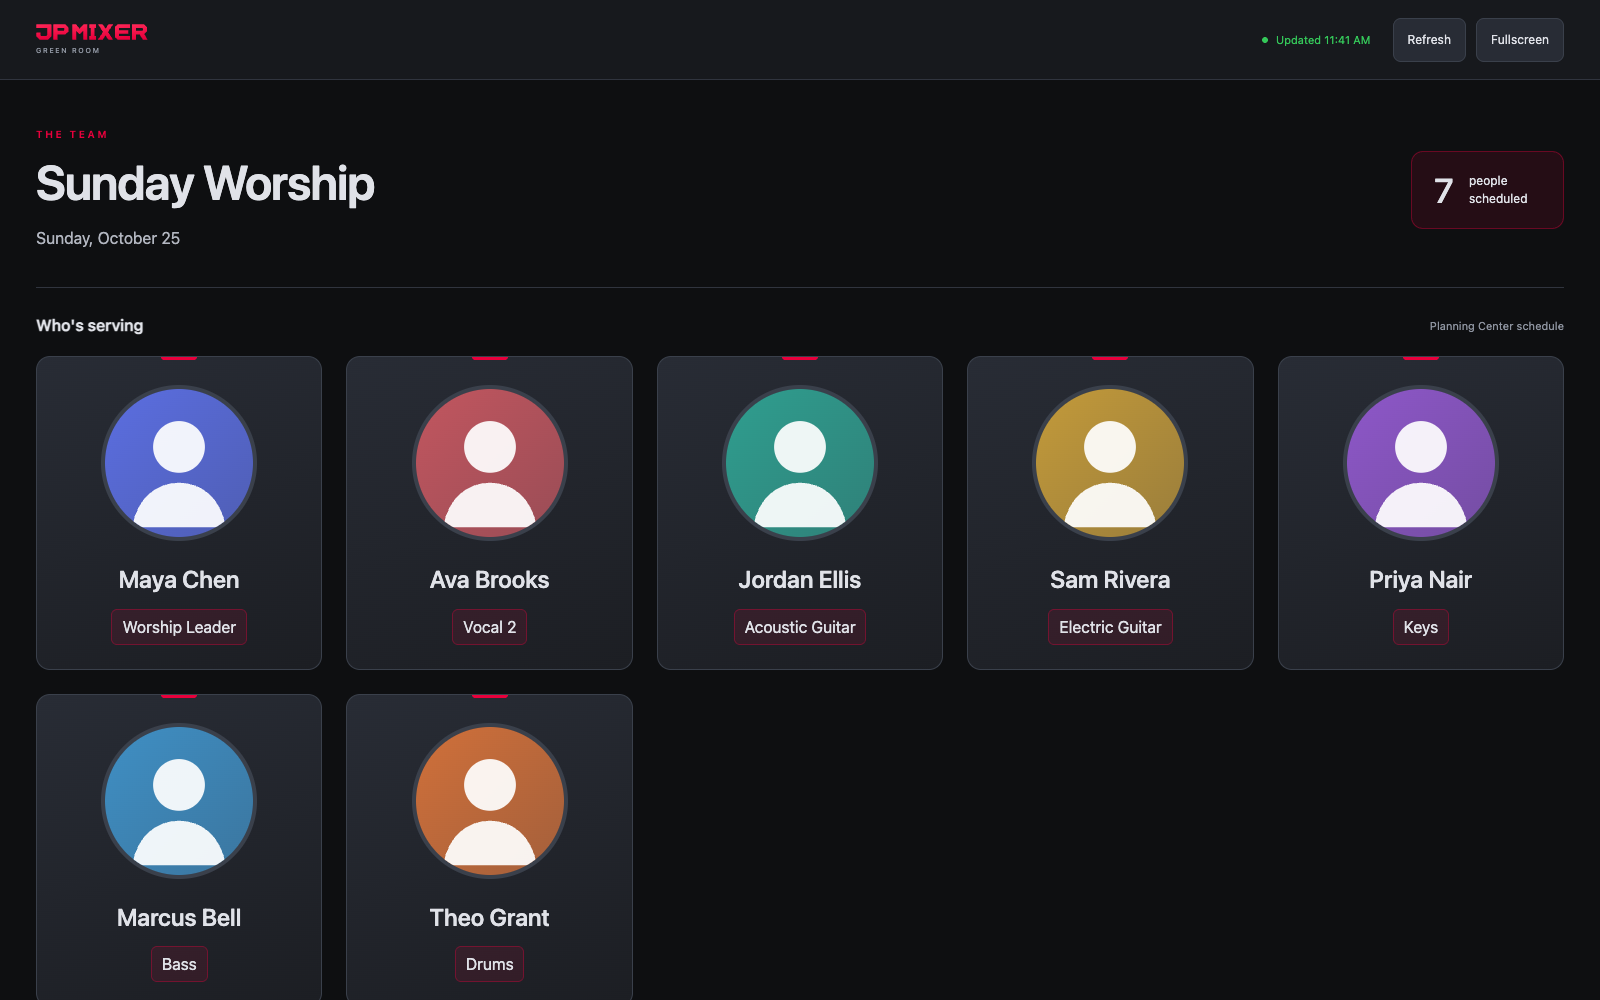
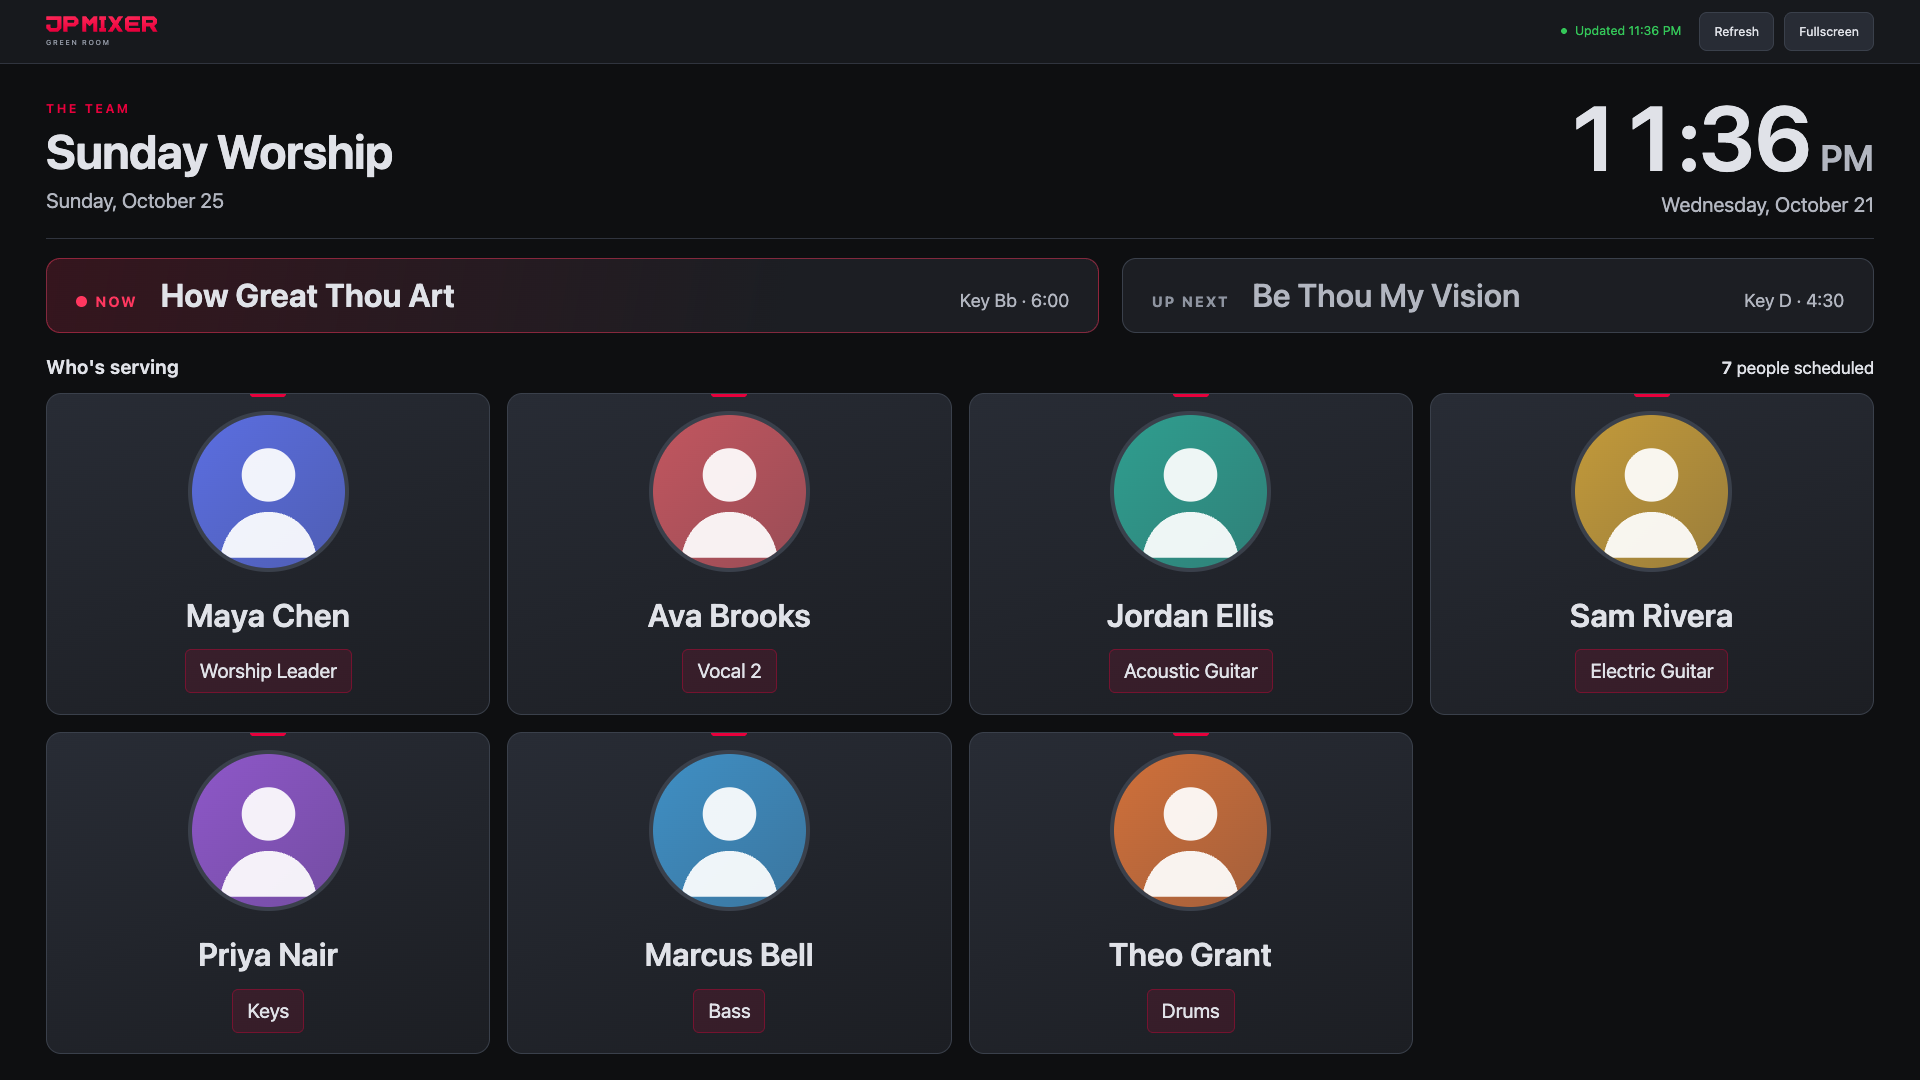
docs: 2.0.8 in the README, manual and Musician Guide
- README: New in 2.0.8; 2.0.7 moves to earlier releases
- User Manual: Green Room on a TV (new screenshot), shared Devices stage,
  chat clearing per service; covers say 2.0.8

diff --git a/docs/manual/index.html b/docs/manual/index.html
@@ -196,7 +196,7 @@ footer.end { border-top: 1px solid var(--rule); padding-top: 22px; color: var(--
 <header class="cover">
   <div class="wrap">
     <div>
-      <div class="cover-top"><span class="brand">JPMixer</span><span class="edition">USER MANUAL · VERSION 2.0.7 · OCTOBER 2026</span></div>
+      <div class="cover-top"><span class="brand">JPMixer</span><span class="edition">USER MANUAL · VERSION 2.0.8 · OCTOBER 2026</span></div>
       <h1 style="margin-top:34px">JPMixer User Manual</h1>
       <p class="lede">Setting up and running JPMixer: personal monitor mixes on every musician’s phone, tools for the monitor and FOH engineers, and a Home page for every production station, all driven by your console and your Planning Center schedule.</p>
       <dl class="cover-facts">
@@ -563,7 +563,7 @@ footer.end { border-top: 1px solid var(--rule); padding-top: 22px; color: var(--
 
   <h3>Devices on stage</h3>
   <figure class="shot bleed"><img src="img/devices.png" alt="Devices on stage: seven device cards on a stage plan"><figcaption><b>Fig. 9.4</b>Devices on stage. Each card is a connected phone or iPad and the mix it’s on.</figcaption></figure>
-  <p>Every connected phone and iPad, the mix it is on, and its latest activity. Click <span class="ui">Arrange stage</span> and drag the cards to match where people stand, from upstage to downstage. <span class="ui">Grid</span> shows the same cards in a plain grid. Positions save in that browser.</p>
+  <p>Every connected phone and iPad, the mix it is on, and its latest activity. Click <span class="ui">Arrange stage</span> and drag the cards to match where people stand, from upstage to downstage. <span class="ui">Grid</span> shows the same cards in a plain grid. The arrangement is saved on the JPMixer computer, so every computer or iPad that opens the Devices page shows the same stage, and an open Devices page follows changes made on another screen.</p>
 </section>
 
 <!-- ═════════ 10 ═════════ -->
@@ -649,7 +649,7 @@ footer.end { border-top: 1px solid var(--rule); padding-top: 22px; color: var(--
   <p>A station they have never saved starts from their layout on another station. Until you save, the layout stays in that browser only.</p>
 
   <h3>Team chat</h3>
-  <p>Messages go to all four stations live. Each shows who sent it and from which station.</p>
+  <p>Messages go to all four stations live. Each shows who sent it and from which station. The chat clears itself when Planning Center moves on to the next service, for example from Saturday night’s plan to Sunday morning’s, and it starts empty whenever JPMixer opens.</p>
 
   <h3>Companion buttons</h3>
   <p>JPMixer connects to Bitfocus Companion (3.0 or newer) as a Satellite and adds one button surface per Home page.</p>
@@ -670,11 +670,14 @@ footer.end { border-top: 1px solid var(--rule); padding-top: 22px; color: var(--
 <section class="chapter" id="greenroom">
   <p class="eyebrow">Chapter 12</p>
   <h2 class="ch">Green Room display</h2>
-  <p class="ch-intro">A full-screen, read-only display of who is serving, with photos and roles, for a TV or iPad in the green room.</p>
-  <figure class="shot bleed"><img src="img/green-room.png" alt="Green Room display with the worship team’s photos, names and roles"><figcaption><b>Fig. 12.1</b>The Green Room at <code>/greenroom.html</code>.</figcaption></figure>
+  <p class="ch-intro">A full-screen, read-only display for a TV or iPad in the green room: who is serving, with photos and roles, a large clock, and what’s live in the service right now.</p>
+  <figure class="shot bleed"><img src="img/green-room.png" alt="Green Room display with the worship team’s photos, names and roles"><figcaption><b>Fig. 12.1</b>The Green Room on a 1080p TV, with the clock and Planning Center Live’s current and next item.</figcaption></figure>
   <ul>
-    <li>Open <code>http://192.168.1.20/greenroom.html</code> on the screen and click <span class="ui">Fullscreen</span>. It refreshes every 2 minutes, so it can be left open.</li>
-    <li>It shows the team chosen under Planning Center → Service &amp; team (or everyone), minus any position marked Hide from Green Room.</li>
+    <li>Open <code>http://192.168.1.20/greenroom.html</code> on the screen and click <span class="ui">Fullscreen</span>. It can be left open: the team refreshes every 2 minutes.</li>
+    <li><strong>Made for a 16:9 TV.</strong> On a landscape screen everything fits on one screen with nothing to scroll. The team grid sizes itself so everyone fits, with bigger photos for a small team and smaller ones for a big team. On a phone or portrait screen it becomes a scrolling list.</li>
+    <li><strong>Clock:</strong> the time and today’s date, top right.</li>
+    <li><strong>Now and Up next:</strong> while someone runs the service in Planning Center Live, a strip shows the live item and the next one, with their key and length. It follows Live within about 15 seconds and disappears when Live isn’t running.</li>
+    <li>It shows the team chosen under Planning Center → Service &amp; team (or everyone), minus any position marked Hide from Green Room. Someone serving more than one role shows once, with each role under their name.</li>
     <li>No code is needed. It is information only, not a control surface.</li>
   </ul>
 </section>
@@ -873,7 +876,7 @@ footer.end { border-top: 1px solid var(--rule); padding-top: 22px; color: var(--
 </section>
 
       <footer class="end">
-        <p style="max-width:none">JPMixer User Manual · Version 2.0.7 · October 2026. Screens show JPMixer’s demo console and a fictional schedule.</p>
+        <p style="max-width:none">JPMixer User Manual · Version 2.0.8 · October 2026. Screens show JPMixer’s demo console and a fictional schedule.</p>
         <p style="max-width:none;font-size:12px">JPMixer is not affiliated with DiGiCo, Allen &amp; Heath, KLANG:technologies, Behringer / MUSIC Tribe, Waves Audio, Bitfocus or Planning Center. All trademarks belong to their owners.</p>
       </footer>
     </div>

diff --git a/docs/musician/index.html b/docs/musician/index.html
@@ -311,7 +311,7 @@ footer { border-top: 1px solid var(--rule); margin-top: 48px; padding-top: 18px;
     <dd>Use the same address as before, then Menu → My Mixes → <b>Find My Mixes…</b> and search for your name.</dd>
   </dl>
   <footer>
-    <p>JPMixer Musician Guide · Version 2.0.7 · October 2026. Screens show a demo setup; every name is fictional. Sound teams: the full <a href="../MANUAL.md">JPMixer User Manual</a> covers setup.</p>
+    <p>JPMixer Musician Guide · Version 2.0.8 · October 2026. Screens show a demo setup; every name is fictional. Sound teams: the full <a href="../MANUAL.md">JPMixer User Manual</a> covers setup.</p>
   </footer>
 </section>
 

diff --git a/docs/MANUAL.md b/docs/MANUAL.md
@@ -7,7 +7,7 @@
 
 # JPMixer User Manual
 
-**Version 2.0.7 · October 2026**
+**Version 2.0.8 · October 2026**
 
 Setting up and running JPMixer: personal monitor mixes on every musician’s phone, tools for the monitor and FOH engineers, and a Home page for every production station, all driven by your console and your Planning Center schedule.
 
@@ -390,7 +390,7 @@ On DiGiCo, each strip’s **EQ** button opens the **channel processing panel**: 
 
 <p align="center"><sub>Fig. 9.4 · Devices on stage. Each card is a connected phone or iPad and the mix it’s on.</sub></p>
 
-Every connected phone and iPad, the mix it is on, and its latest activity. Click **Arrange stage** and drag the cards to match where people stand, from upstage to downstage. **Grid** shows the same cards in a plain grid. Positions save in that browser.
+Every connected phone and iPad, the mix it is on, and its latest activity. Click **Arrange stage** and drag the cards to match where people stand, from upstage to downstage. **Grid** shows the same cards in a plain grid. The arrangement is saved on the JPMixer computer, so every computer or iPad that opens the Devices page shows the same stage, and an open Devices page follows changes made on another screen.
 
 ---
 
@@ -513,7 +513,7 @@ A station they have never saved starts from their layout on another station. Unt
 
 ### Team chat
 
-Messages go to all four stations live. Each shows who sent it and from which station.
+Messages go to all four stations live. Each shows who sent it and from which station. The chat clears itself when Planning Center moves on to the next service, for example from Saturday night’s plan to Sunday morning’s, and it starts empty whenever JPMixer opens.
 
 ### Companion buttons
 
@@ -540,14 +540,17 @@ Settings → Pages lists every page JPMixer serves with its direct link. FOH Hom
 
 ## 12. Green Room display
 
-A full-screen, read-only display of who is serving, with photos and roles, for a TV or iPad in the green room.
+A full-screen, read-only display for a TV or iPad in the green room: who is serving, with photos and roles, a large clock, and what’s live in the service right now.
 
 <p align="center"><img src="manual/img/green-room.png" alt="Green Room display with the worship team’s photos, names and roles"></p>
 
-<p align="center"><sub>Fig. 12.1 · The Green Room at `/greenroom.html`.</sub></p>
+<p align="center"><sub>Fig. 12.1 · The Green Room on a 1080p TV, with the clock and Planning Center Live’s current and next item.</sub></p>
 
-- Open `http://192.168.1.20/greenroom.html` on the screen and click **Fullscreen**. It refreshes every 2 minutes, so it can be left open.
-- It shows the team chosen under Planning Center → Service & team (or everyone), minus any position marked Hide from Green Room.
+- Open `http://192.168.1.20/greenroom.html` on the screen and click **Fullscreen**. It can be left open: the team refreshes every 2 minutes.
+- **Made for a 16:9 TV.** On a landscape screen everything fits on one screen with nothing to scroll. The team grid sizes itself so everyone fits, with bigger photos for a small team and smaller ones for a big team. On a phone or portrait screen it becomes a scrolling list.
+- **Clock:** the time and today’s date, top right.
+- **Now and Up next:** while someone runs the service in Planning Center Live, a strip shows the live item and the next one, with their key and length. It follows Live within about 15 seconds and disappears when Live isn’t running.
+- It shows the team chosen under Planning Center → Service & team (or everyone), minus any position marked Hide from Green Room. Someone serving more than one role shows once, with each role under their name.
 - No code is needed. It is information only, not a control surface.
 
 ---

diff --git a/README.md b/README.md
@@ -19,7 +19,7 @@
   <a href="#download"><b>⬇ Download</b></a> &nbsp;·&nbsp;
   <a href="docs/MANUAL.md"><b>📖 User Manual</b></a> &nbsp;·&nbsp;
   <a href="docs/MUSICIAN-GUIDE.md"><b>🎧 Musician Guide</b></a> &nbsp;·&nbsp;
-  <a href="#new-in-2-0-7">What’s new</a> &nbsp;·&nbsp;
+  <a href="#new-in-2-0-8">What’s new</a> &nbsp;·&nbsp;
   <a href="#quick-start">Quick start</a> &nbsp;·&nbsp;
   <a href="#features">Features</a> &nbsp;·&nbsp;
   <a href="#consoles">Consoles</a> &nbsp;·&nbsp;
@@ -75,22 +75,25 @@
 
 ---
 
-<a id="new-in-2-0-7"></a>
+<a id="new-in-2-0-8"></a>
 
-## 🆕 New in 2.0.7
+## 🆕 New in 2.0.8
 
 | | |
 |---|---|
-| 📖 **User Manual** | A complete manual with screenshots of every page and setting. See [Documentation](#documentation). |
-| 🧭 **Settings that walk you through setup** | A new **Get started** tab with the address to give performers and a checklist of every step. The sidebar is grouped into Setup, People & pages and System, channel groups come first as chips, and Home page roles sit with Planning Center. |
-| ✏ **Rename any mix** | Type your own name for a mix on the Aux mixes tab. Clear it to go back to the console’s name. The console itself is never changed. |
-| 📅 **Planning Center keeps itself current** | Syncs 10 seconds after JPMixer opens and every 5 minutes while it runs. A mix nobody is scheduled on gets its own name back. |
-| 📆 **Second service** | An optional second Service Type, such as a Wednesday night, with its own teams, mapping and Home page roles. It takes over on days it has a plan and the main service doesn’t. |
-| 🎛 **dLive Console Controller and stereo mixes** | Inputs, aux masters and DCAs from a browser, the console’s own solo, stereo aux mixes, and console renames that reach phones straight away. |
-| 🛠 **Fixes** | dLive and LV1 no longer drop the last changes when JPMixer stops, so muted sends always come back. |
+| 📺 **Green Room made for a TV** | Fits a 16:9 screen with nothing to scroll, however big the team. Adds a large clock, and **Now / Up next** from Planning Center Live. Someone serving two roles shows as one card with both. |
+| 🎛 **Companion buttons always fit** | The buttons on every Home page size themselves to the card, so they never overlap, hide or need scrolling. |
+| 📍 **One Devices arrangement for everyone** | The stage layout on the Devices page is saved on the JPMixer computer, so every computer and iPad shows the same arrangement and follows changes live. |
+| 💬 **Team chat starts fresh each service** | The chat clears itself when Planning Center moves on to the next service. |
 
 <details>
-<summary><b>Earlier releases: 2.0.5 and 2.0</b></summary>
+<summary><b>Earlier releases: 2.0.7, 2.0.5 and 2.0</b></summary>
+
+### 2.0.7
+- **User Manual** and **Musician Guide**.
+- **Settings that walk you through setup** (Get started checklist), and **rename any mix**.
+- **Planning Center keeps itself current** (10 seconds after opening, then every 5 minutes), plus an optional **second service**.
+- **dLive Console Controller** and stereo mixes.
 
 ### 2.0.5
 - **Waves eMotion LV1**: a fifth console, with levels, mute, solo, pan, live names, Ear Scenes and the Console Controller through LV1’s MyMon remote.

diff --git a/docs/MUSICIAN-GUIDE.md b/docs/MUSICIAN-GUIDE.md
@@ -7,7 +7,7 @@
 
 # Your mix, on your phone
 
-**JPMixer Musician Guide · Version 2.0.7**
+**JPMixer Musician Guide · Version 2.0.8**
 
 A quick guide for musicians and singers. JPMixer lets you set the level of every channel in your own in-ears or wedge, without touching the main mix and without installing an app.
 
